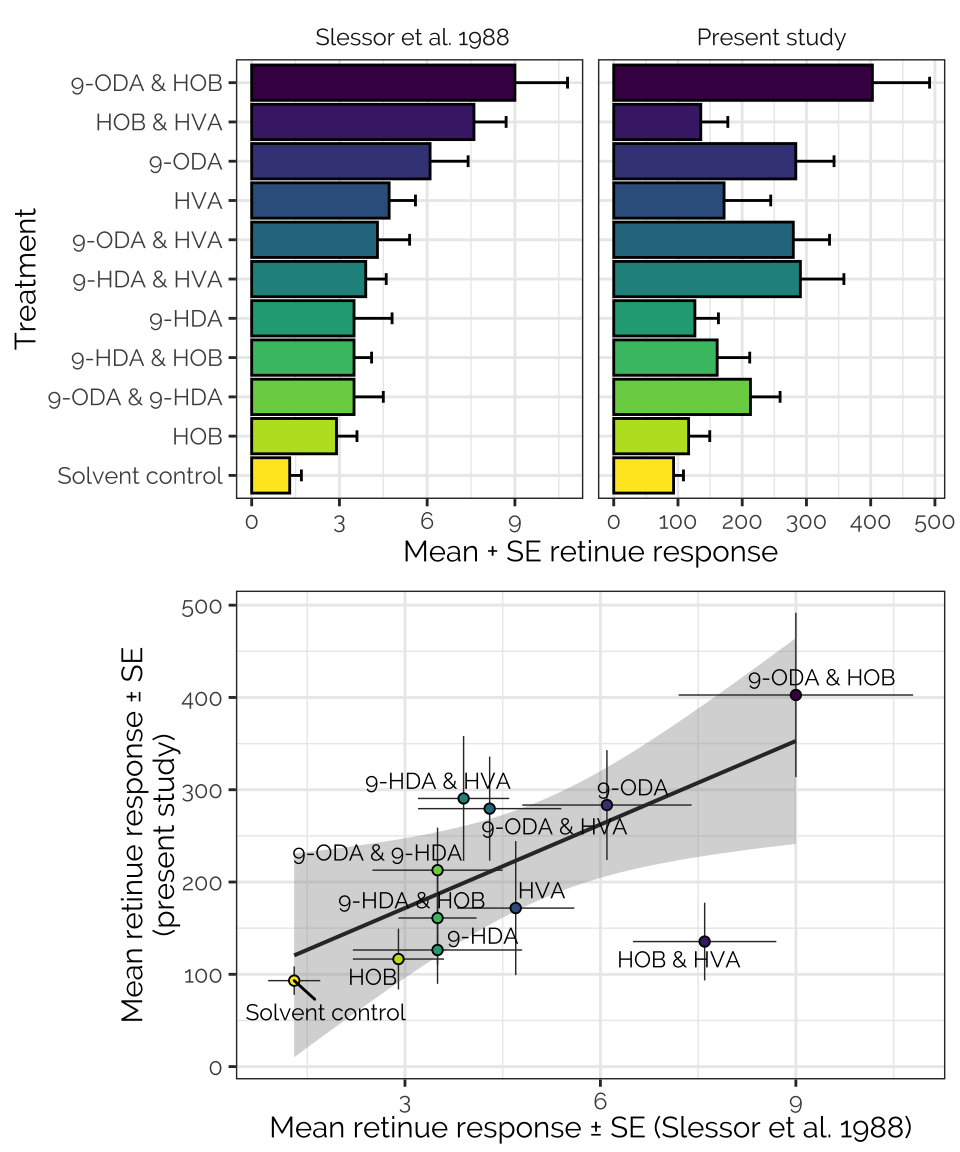
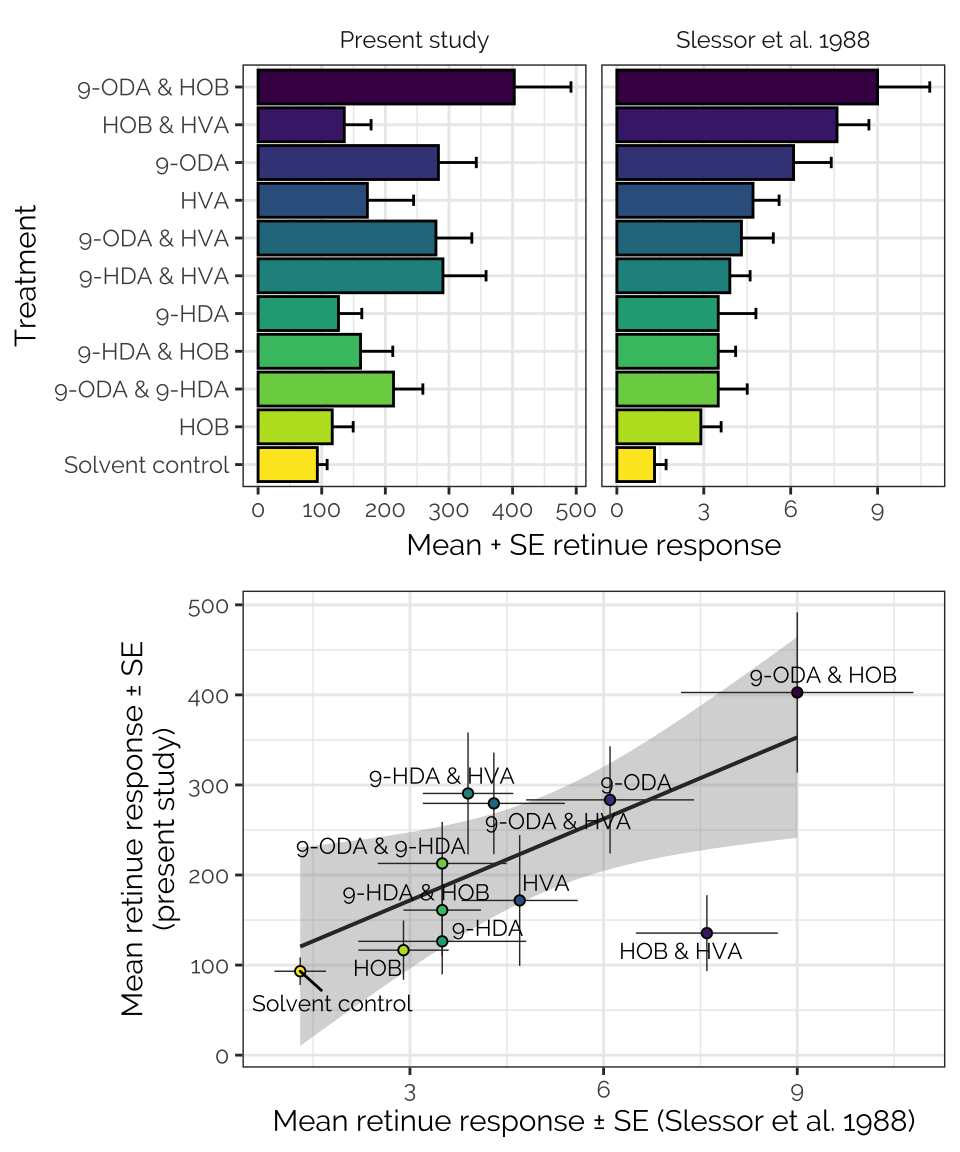
Build site.

diff --git a/docs/statistics.html b/docs/statistics.html
@@ -434,7 +434,7 @@ div.tocify {
 <div class="tab-content">
 <div id="summary" class="tab-pane fade in active">
 <p>
-<strong>Last updated:</strong> 2021-06-03
+<strong>Last updated:</strong> 2021-06-04
 </p>
 <p>
 <strong>Checks:</strong> <span class="glyphicon glyphicon-ok text-success" aria-hidden="true"></span> 7 <span class="glyphicon glyphicon-exclamation-sign text-danger" aria-hidden="true"></span> 0
@@ -525,16 +525,16 @@ This reproducible <a href="http://rmarkdown.rstudio.com">R Markdown</a> analysis
 <div class="panel panel-default">
 <div class="panel-heading">
 <p class="panel-title">
-<a data-toggle="collapse" data-parent="#workflowr-checks" href="#strongRepositoryversionstrongahrefhttpsgithubcomlukeholmanapisretinueexpttreecef055301feab3e4ec61adabd573a063a749de41targetblankcef0553a"> <span class="glyphicon glyphicon-ok text-success" aria-hidden="true"></span> <strong>Repository version:</strong> <a href="https://github.com/lukeholman/apis_retinue_expt/tree/cef055301feab3e4ec61adabd573a063a749de41" target="_blank">cef0553</a> </a>
+<a data-toggle="collapse" data-parent="#workflowr-checks" href="#strongRepositoryversionstrongahrefhttpsgithubcomlukeholmanapisretinueexpttree5c82095eca887bc64c41817ee6ab5a65982bc541targetblank5c82095a"> <span class="glyphicon glyphicon-ok text-success" aria-hidden="true"></span> <strong>Repository version:</strong> <a href="https://github.com/lukeholman/apis_retinue_expt/tree/5c82095eca887bc64c41817ee6ab5a65982bc541" target="_blank">5c82095</a> </a>
 </p>
 </div>
[2 lines of base64/hex data omitted]
 <div class="panel-body">
 <p>
 Great! You are using Git for version control. Tracking code development and connecting the code version to the results is critical for reproducibility.
 </p>
 <p>
-The results in this page were generated with repository version <a href="https://github.com/lukeholman/apis_retinue_expt/tree/cef055301feab3e4ec61adabd573a063a749de41" target="_blank">cef0553</a>. See the <em>Past versions</em> tab to see a history of the changes made to the R Markdown and HTML files.
+The results in this page were generated with repository version <a href="https://github.com/lukeholman/apis_retinue_expt/tree/5c82095eca887bc64c41817ee6ab5a65982bc541" target="_blank">5c82095</a>. See the <em>Past versions</em> tab to see a history of the changes made to the R Markdown and HTML files.
 </p>
 <p>
 Note that you need to be careful to ensure that all relevant files for the analysis have been committed to Git prior to generating the results (you can use <code>wflow_publish</code> or <code>wflow_git_commit</code>). workflowr only checks the R Markdown file, but you know if there are other scripts or data files that it depends on. Below is the status of the Git repository when the results were generated:
@@ -604,6 +604,40 @@ Message
 </tr>
 </thead>
 <tbody>
+<tr>
+<td>
+Rmd
+</td>
+<td>
+<a href="https://github.com/lukeholman/apis_retinue_expt/blob/5c82095eca887bc64c41817ee6ab5a65982bc541/analysis/statistics.Rmd" target="_blank">5c82095</a>
+</td>
+<td>
+lukeholman
+</td>
+<td>
+2021-06-04
+</td>
+<td>
+workflowr::wflow_publish(“analysis/statistics.Rmd”)
+</td>
+</tr>
+<tr>
+<td>
+html
+</td>
+<td>
+<a href="https://rawcdn.githack.com/lukeholman/apis_retinue_expt/65147de19ccf4b511b3dd1c197b5b70de19b97d4/docs/statistics.html" target="_blank">65147de</a>
+</td>
+<td>
+lukeholman
+</td>
+<td>
+2021-06-03
+</td>
+<td>
+Build site.
+</td>
+</tr>
 <tr>
 <td>
 Rmd
@@ -3662,9 +3696,20 @@ slessor &lt;- tibble(
 slessor_levels &lt;- slessor %&gt;%
   arrange(mean) %&gt;% pull(treatment)
 
+# slessor%&gt;%
+#   mutate(treatment = factor(treatment, slessor_levels)) %&gt;% 
+#   ggplot(aes(treatment, mean, fill = treatment)) + 
+#   geom_errorbar(aes(ymin = mean-SE, ymax=mean+SE), width = 0.3) + 
+#   geom_bar(stat=&quot;identity&quot;, colour = &quot;black&quot;) + coord_flip() +
+#   scale_fill_viridis_d(direction = -1) +
+#   theme(legend.position = &quot;none&quot;,
+#         text = element_text(family = nice_font)) + 
+#   ylab(&quot;Mean + SE retinue response&quot;) + 
+#   xlab(&quot;Treatment&quot;)
+
 barplot_data &lt;- slessor %&gt;%
   arrange(mean) %&gt;%
-  mutate(study = &quot; Slessor et al. 1988&quot;) %&gt;%
+  mutate(study = &quot;Slessor et al. 1988&quot;) %&gt;%
   bind_rows(data_by_petri_dish %&gt;%
               filter(treatment != &quot;10-HDA (worker control)&quot;) %&gt;%
               group_by(treatment) %&gt;%
@@ -3675,10 +3720,30 @@ barplot_data &lt;- slessor %&gt;%
                      treatment = str_replace_all(as.character(treatment), &quot;and&quot;, &quot;&amp;&quot;)) %&gt;%
               select(study, mean, SE, n, treatment)) %&gt;%
   filter(treatment %in% levels_ampersand) %&gt;%
-#  filter(study != &quot;Our study&quot;) %&gt;%
   mutate(treatment = factor(treatment, slessor_levels)) 
 
-comparison_barplot &lt;- barplot_data %&gt;%
+barplot_data %&gt;% 
+  select(study, mean, treatment) %&gt;% 
+  spread(study, mean) %&gt;% 
+  mutate(`Slessor et al. 1988` = as.numeric(scale(`Slessor et al. 1988`)),
+         `Present study` = as.numeric(scale(`Present study`)),
+         diff = `Slessor et al. 1988` - `Present study`)</code></pre>
+<pre># A tibble: 11 x 4
+   treatment       `Present study` `Slessor et al. 1988`    diff
+   <fct>                     <dbl>                 <dbl>   <dbl>
+ 1 Solvent control         -1.18                 -1.48   -0.304 
+ 2 HOB                     -0.937                -0.759   0.178 
+ 3 9-ODA & 9-HDA            0.0642               -0.487  -0.551 
+ 4 9-HDA & HOB             -0.474                -0.487  -0.0122
+ 5 9-HDA                   -0.835                -0.487   0.348 
+ 6 9-HDA & HVA              0.872                -0.305  -1.18  
+ 7 9-ODA & HVA              0.758                -0.124  -0.881 
+ 8 HVA                     -0.363                 0.0577  0.421 
+ 9 9-ODA                    0.798                 0.693  -0.105 
+10 HOB & HVA               -0.740                 1.37    2.11  
+11 9-ODA & HOB              2.04                  2.01   -0.0294
+</pre>
+<pre class="r"><code>comparison_barplot &lt;- barplot_data %&gt;%
   ggplot(aes(treatment, mean, fill = treatment)) + 
   geom_errorbar(aes(ymin = mean-SE, ymax=mean+SE), width = 0.3) + 
   geom_bar(stat=&quot;identity&quot;, colour = &quot;black&quot;) + coord_flip() +
@@ -3834,31 +3899,31 @@ loaded via a namespace (and not attached):
  [52] DT_0.13              htmlwidgets_1.5.1    httr_1.4.1          
  [55] threejs_0.3.3        arrayhelpers_1.1-0   ellipsis_0.3.1      
  [58] farver_2.0.3         pkgconfig_2.0.3      loo_2.3.1           
- [61] dbplyr_1.4.4         labeling_0.3         tidyselect_1.1.0    
- [64] rlang_0.4.6          reshape2_1.4.4       later_1.0.0         
- [67] munsell_0.5.0        cellranger_1.1.0     tools_4.0.3         
- [70] cli_2.0.2            generics_0.0.2       broom_0.5.6         
- [73] ggridges_0.5.2       evaluate_0.14        fastmap_1.0.1       
- [76] yaml_2.2.1           processx_3.4.2       fs_1.4.1            
- [79] nlme_3.1-149         whisker_0.4          mime_0.9            
- [82] projpred_2.0.2       xml2_1.3.2           compiler_4.0.3      
- [85] bayesplot_1.7.2      shinythemes_1.1.2    rstudioapi_0.11     
- [88] beeswarm_0.2.3       gamm4_0.2-6          curl_4.3            
- [91] reprex_0.3.0         statmod_1.4.34       stringi_1.5.3       
- [94] highr_0.8            ps_1.3.3             Brobdingnag_1.2-6   
- [97] gdtools_0.2.2        lattice_0.20-41      Matrix_1.2-18       
-[100] nloptr_1.2.2.1       markdown_1.1         shinyjs_1.1         
-[103] vctrs_0.3.0          pillar_1.4.4         lifecycle_0.2.0     
-[106] bridgesampling_1.0-0 estimability_1.3     insight_0.8.4       
-[109] httpuv_1.5.3.1       R6_2.4.1             promises_1.1.0      
-[112] vipor_0.4.5          codetools_0.2-16     boot_1.3-25         
-[115] colourpicker_1.0     MASS_7.3-53          gtools_3.8.2        
-[118] assertthat_0.2.1     rprojroot_1.3-2      withr_2.2.0         
-[121] shinystan_2.5.0      multcomp_1.4-13      mgcv_1.8-33         
-[124] parallel_4.0.3       hms_0.5.3            grid_4.0.3          
-[127] coda_0.19-3          minqa_1.2.4          rmarkdown_2.5       
-[130] git2r_0.27.1         shiny_1.4.0.2        lubridate_1.7.8     
-[133] base64enc_0.1-3      dygraphs_1.1.1.6    
+ [61] dbplyr_1.4.4         utf8_1.1.4           labeling_0.3        
+ [64] tidyselect_1.1.0     rlang_0.4.6          reshape2_1.4.4      
+ [67] later_1.0.0          munsell_0.5.0        cellranger_1.1.0    
+ [70] tools_4.0.3          cli_2.0.2            generics_0.0.2      
+ [73] broom_0.5.6          ggridges_0.5.2       evaluate_0.14       
+ [76] fastmap_1.0.1        yaml_2.2.1           processx_3.4.2      
+ [79] fs_1.4.1             nlme_3.1-149         whisker_0.4         
+ [82] mime_0.9             projpred_2.0.2       xml2_1.3.2          
+ [85] compiler_4.0.3       bayesplot_1.7.2      shinythemes_1.1.2   
+ [88] rstudioapi_0.11      beeswarm_0.2.3       gamm4_0.2-6         
+ [91] curl_4.3             reprex_0.3.0         statmod_1.4.34      
+ [94] stringi_1.5.3        highr_0.8            ps_1.3.3            
+ [97] Brobdingnag_1.2-6    gdtools_0.2.2        lattice_0.20-41     
+[100] Matrix_1.2-18        nloptr_1.2.2.1       markdown_1.1        
+[103] shinyjs_1.1          vctrs_0.3.0          pillar_1.4.4        
+[106] lifecycle_0.2.0      bridgesampling_1.0-0 estimability_1.3    
+[109] insight_0.8.4        httpuv_1.5.3.1       R6_2.4.1            
+[112] promises_1.1.0       vipor_0.4.5          codetools_0.2-16    
+[115] boot_1.3-25          colourpicker_1.0     MASS_7.3-53         
+[118] gtools_3.8.2         assertthat_0.2.1     rprojroot_1.3-2     
+[121] withr_2.2.0          shinystan_2.5.0      multcomp_1.4-13     
+[124] mgcv_1.8-33          parallel_4.0.3       hms_0.5.3           
+[127] grid_4.0.3           coda_0.19-3          minqa_1.2.4         
+[130] rmarkdown_2.5        git2r_0.27.1         shiny_1.4.0.2       
+[133] lubridate_1.7.8      base64enc_0.1-3      dygraphs_1.1.1.6    
 </pre>
 </div>
 </div>
